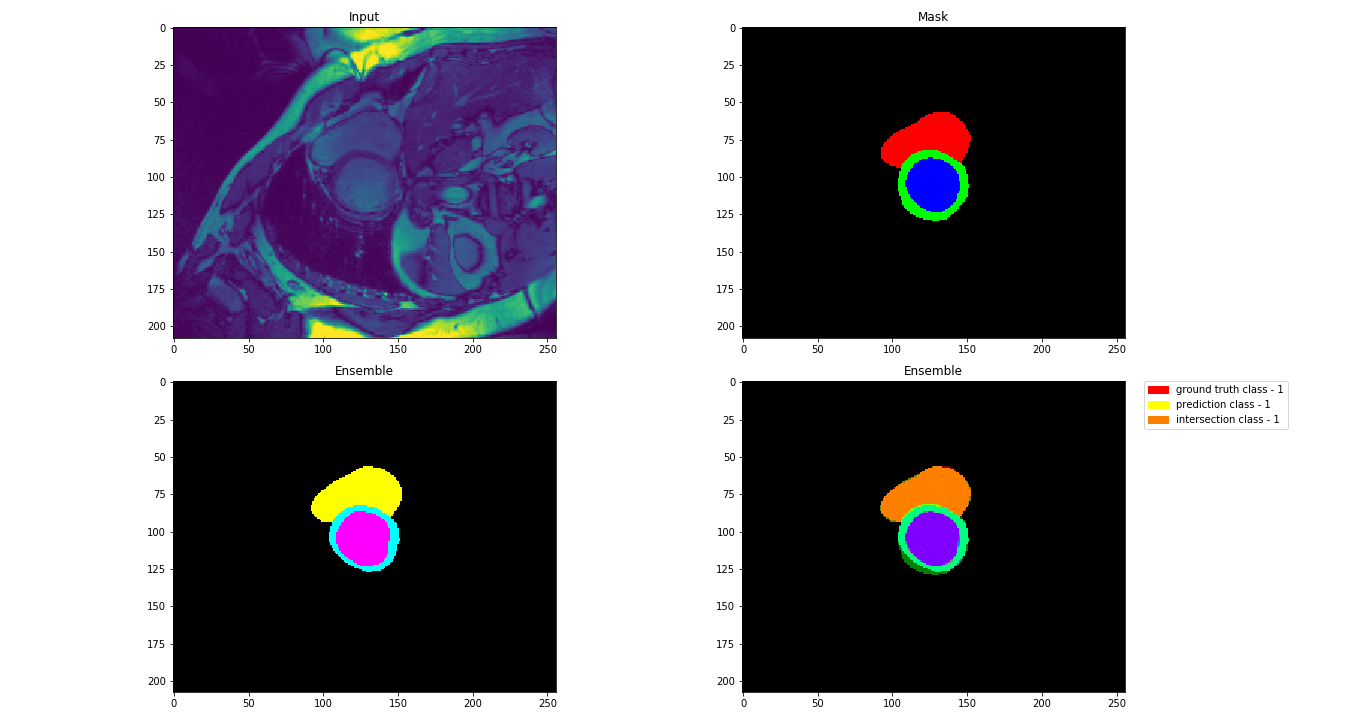
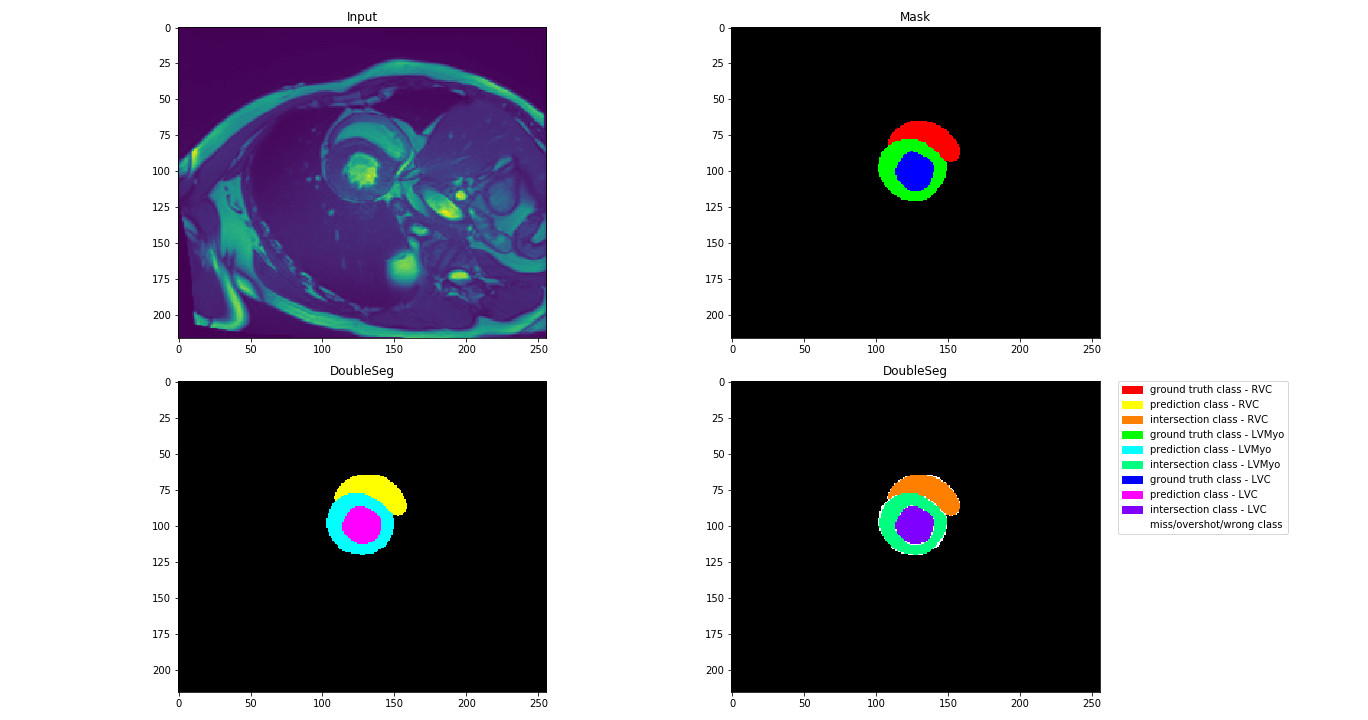
add references, update visualization

diff --git a/utils/visualization.py b/utils/visualization.py
@@ -3,12 +3,11 @@ import cv2
 from albumentations import Resize
 import matplotlib.pyplot as plt
 import matplotlib.patches as mpatches
-import copy
+
+import constants
 
 from utils import inference
-from utils.ROI_crop import roi_crop
 from utils.training_utils import training_setup
-from utils import metrics
 from utils import prepare_models
 
 
@@ -76,6 +75,7 @@ def save_predictions(dataloader, model_names, dataset_name, model_pred_lists, mo
         # show results on the current volume
         orig_volume = orig_volume.cpu().numpy()
         mask = mask.cpu().numpy().astype(np.uint8)
+        classes = list(np.unique(mask))
 
         for idx, (inp, msk) in enumerate(zip(orig_volume, mask)):
             total += 1
@@ -103,12 +103,14 @@ def save_predictions(dataloader, model_names, dataset_name, model_pred_lists, mo
                     caption = model_name + " " + "{:.3f}".format(float(np.mean(dice[idx])))
                 else:
                     caption = model_name
-                overlays.append((base_colored + colored_mask) / 2)
+                inter = get_inter(base, msk, classes)
+                overlays.append(get_overlay(base_colored, colored_mask, inter))
                 overlay_names.append(caption)
 
             image_list.extend(overlays)
             name_list.extend(overlay_names)
-            show_images(image_list, cols=len(image_list)//2, titles=name_list, save_id=save_id)
+            show_images(image_list, cols=len(image_list)//2, titles=name_list,
+                        save_id=save_id, n_classes=len(classes))
 
 
 def visualize_img_mask_pair_2d(image, mask, img_name='img', mask_name='mask', use_orig_res=False,
@@ -188,12 +190,14 @@ def show_images(images, cols=1, titles=None, save_id=None, n_classes=2):
     # pred_colors = [(0, 1, 0), (1, 140 / 255, 0), (1, 1, 0)]
     labels, colors = [], []
     for idx, c in enumerate(range(1, n_classes)):
-        labels.append("ground truth class - " + str(c))
-        labels.append("prediction class - " + str(c))
-        labels.append("intersection class - " + str(c))
+        labels.append("ground truth class - " + constants.acdc_heart[idx])
+        labels.append("prediction class - " + constants.acdc_heart[idx])
+        labels.append("intersection class - " + constants.acdc_heart[idx])
         colors.append(gt_colors[idx])
         colors.append(pred_colors[idx])
         colors.append([(x+y)/2 for x, y in zip(gt_colors[idx], pred_colors[idx])])
+    labels.append("miss/overshot/wrong class")
+    colors.append((1, 1, 1))
 
     patches = [mpatches.Patch(color=colors[i], label=labels[i]) for i in range(len(labels))]
     plt.legend(handles=patches, bbox_to_anchor=(1.05, 1), loc=2, borderaxespad=0.)
@@ -206,51 +210,6 @@ def show_images(images, cols=1, titles=None, save_id=None, n_classes=2):
     plt.close()
 
 
-def visualize_pred_coords(volume, mask, coords, scores, params, config):
-    print("unique pred elements: ", np.unique(volume))
-    for i in range(volume.shape[0]):
-        c_image = cv2.resize(volume[i], dsize=(512, 512)) * 200
-        c_mask = mask[i]
-
-        pos_1 = c_mask == 1
-        pos_2 = c_mask == 2
-        pos_3 = c_mask == 3
-        dummy_mask = np.zeros((c_mask.shape))
-        dummy_mask[pos_1] = 200.0
-        dummy_mask[pos_2] = 180.0
-        dummy_mask[pos_3] = 255.0
-        dummy_mask = cv2.resize(dummy_mask, dsize=(c_image.shape))
-
-        x_min, y_min, x_max, y_max = coords[i]
-        params_cpy = copy.deepcopy(params)
-        params_cpy.relative_roi_perturbation = [4, 20]
-        setup = roi_crop.get_roi_crop_setup(params_cpy, config)
-        print("In visualization QDFQWEF", params_cpy.relative_roi_perturbation, setup)
-        gx_min, gy_min, gx_max, gy_max = roi_crop.compute_ROI_coords(
-            dummy_mask, params_cpy, setup, validation=True)
-
-        print("Pred coords :", x_min, y_min, x_max, y_max)
-        print("GT coords :", gx_min, gy_min, gx_max, gy_max)
-
-        c_image = cv2.rectangle(c_image, (x_min, y_min), (x_max, y_max), 1000, 1)
-        c_image = cv2.rectangle(c_image, (gx_min, gy_min), (gx_max, gy_max), 1000, 1)
-
-        dummy_mask = cv2.rectangle(dummy_mask, (x_min, y_min), (x_max, y_max), 1000, 1)
-        dummy_mask = cv2.rectangle(dummy_mask, (gx_min, gy_min), (gx_max, gy_max), 1000, 1)
-
-        classes = list(np.unique(c_mask))
-        classes.pop(0)
-        dice = metrics.metrics(mask[i], volume[i], classes=classes)
-
-        print("Score: ", scores[i])
-        print("Dice: ", dice, np.mean(dice))
-        print("unique mask slice elems", np.unique(c_mask))
-
-        visualize_img_mask_pair_2d(
-            c_image, dummy_mask, str(np.mean(dice)), "after_mask", use_orig_res=True, wait=True)
-        cv2.destroyAllWindows()
-
-
 def color_a_mask(mask, type="prediction"):
     """
     mask - H x W ndarray
@@ -260,11 +219,6 @@ def color_a_mask(mask, type="prediction"):
         red - (255, 0, 0)
         green - (0, 255, 0)
         blue - (0, 0, 255)
-
-    Colors used for prediction
-        cyan - (0, 255, 255)
-        orange - (255,140,0)
-        yellow - (255,255,0)
     """
     gt_colors = [(1, 0, 0), (0, 1, 0), (0, 0, 1)]
     pred_colors = [(1, 1, 0), (0, 1, 1), (1, 0, 1)]
@@ -298,3 +252,30 @@ def color_a_class(color_code, class_id, colored_mask, mask):
     for idx, intensity in enumerate(color_code):
         c_intensity_sheet = colored_mask[:, :, idx]
         c_intensity_sheet[class_indices] = intensity
+
+
+def get_overlay(msk1, msk2, inter):
+    """
+    To keep the same colors outside the intersection, only average the intersection area
+    """
+    over = np.zeros((msk1.shape))
+    over[inter] = (msk1[inter] + msk2[inter]) / 2
+
+    # overshoot, miss, wrong label
+    over[~inter] = (1, 1, 1)
+
+    return over
+
+
+def get_inter(msk1, msk2, classes):
+    inters_for_classes = []
+    for c in classes:
+        indices1 = msk1 == c
+        indices2 = msk2 == c
+        inters_for_classes.append(indices1 * indices2)
+
+    inter_all = np.zeros(msk1.shape).astype(np.bool)
+    for inter_c in inters_for_classes:
+        inter_all = inter_c + inter_all
+
+    return inter_all

diff --git a/constants.py b/constants.py
@@ -28,7 +28,7 @@ resnet18_detector = "resnet18_detector"
 resnet50_detector = "resnet50_detector"
 detectors = [resnet18_detector, resnet50_detector]
 
-acdc_heart = ["RVC", "LVC", "LVMyo"]
+acdc_heart = ["RVC", "LVMyo", "LVC"]
 mmwhs_heart = ["LVC", "LVMyo", "RVC", "LA", "RA", "AA", "PA"]
 
 divide_decay = "divide"

diff --git a/README.md b/README.md
@@ -41,3 +41,10 @@ All Ensemble* = Ensemble of Standard DeepLab, Unet and Double Segmentation DeepL
 # Image Samples
 
 ![Sample one model](https://github.com/RonaldGalea/imATFIB/blob/master/sample.png)
+![Sample side by side](https://github.com/RonaldGalea/imATFIB/blob/master/sample_2_models.png)
+
+# References
+
+[1]: O. Bernard et al., "Deep Learning Techniques for Automatic MRI Cardiac Multi-Structures Segmentation and Diagnosis: Is the Problem Solved?," in IEEE Transactions on Medical Imaging, vol. 37, no. 11, pp. 2514-2525, Nov. 2018, doi: 10.1109/TMI.2018.2837502.
+[2]: Ronneberger O, Fischer P, Brox T. U-net: Convolutional networks for biomedical image segmentation. InInternational Conference on Medical image computing and computer-assisted intervention 2015 Oct 5 (pp. 234-241). Springer, Cham.
+[3]: Chen LC, Papandreou G, Kokkinos I, Murphy K, Yuille AL. Deeplab: Semantic image segmentation with deep convolutional nets, atrous convolution, and fully connected crfs. IEEE transactions on pattern analysis and machine intelligence. 2017 Apr 27;40(4):834-48.
